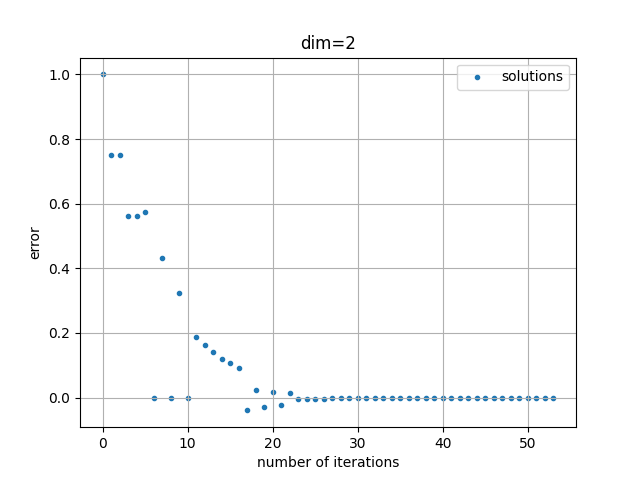
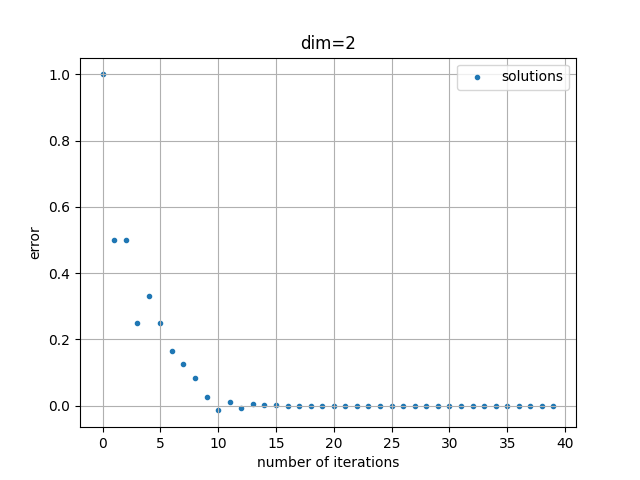
row 103 idk how to make it converge :(

diff --git a/code/main.py b/code/main.py
@@ -1,5 +1,6 @@
 import numpy as np
 import matplotlib.pyplot as plt
+from matplotlib.cm import ScalarMappable
 import os
 
 
@@ -98,6 +99,8 @@ class ImprovedIterationScheme:
             if if_plot is True:
                 self.plot_points_norm()
                 self.plot_points_value()
+
+            new_solution = new_solution + 0.005 * (new_solution - self.initial_value) * (1 / self.iterations)  # ?
 
             self.iterations += 1  # after calculating a new solution, iterations++
             self.all_solutions.append(np.array(new_solution))  # add new_solution to the solution list
@@ -276,6 +279,55 @@ class ImprovedIterationScheme:
         file_name = f"{folder_name}/value_norm.png"
         plt.savefig(file_name)
 
+    def plot_all_solutions_value_3d(self):
+        # do if n = 3:
+        folder_name = "results/all_iterating_solutions"
+        os.makedirs(folder_name, exist_ok=True)
+
+        fig = plt.figure()
+        ax = fig.add_subplot(111, projection='3d')
+        num_points = len(self.all_solutions)
+        colors = np.arange(num_points)
+        cmap = plt.get_cmap('viridis')
+        normalize = plt.Normalize(vmin=colors.min(), vmax=colors.max())
+        scalar_map = ScalarMappable(cmap=cmap, norm=normalize)
+
+        for i in range(num_points):
+            color_val = scalar_map.to_rgba(colors[i])
+            ax.scatter(self.all_solutions[i][0], self.all_solutions[i][1], self.all_solutions[i][2], c=[color_val], cmap='viridis', s=50)
+
+        scalar_map.set_array(colors)
+        cbar = plt.colorbar(scalar_map)
+        cbar.set_label('Index')
+
+        file_name = f"{folder_name}/value.png"
+        plt.savefig(file_name)
+        plt.show()
+
+    def plot_all_solutions_value_2d(self):
+        plt.figure()
+        # do if n = 2:
+        folder_name = "results/all_iterating_solutions"
+        os.makedirs(folder_name, exist_ok=True)
+
+        num_points = len(self.all_solutions)
+        colors = np.arange(num_points)
+        cmap = plt.get_cmap('viridis')
+        normalize = plt.Normalize(vmin=colors.min(), vmax=colors.max())
+        scalar_map = ScalarMappable(cmap=cmap, norm=normalize)
+
+        for i in range(num_points):
+            color_val = scalar_map.to_rgba(colors[i])
+            plt.scatter(self.all_solutions[i][0], self.all_solutions[i][1], c=[color_val], cmap='viridis', s=50)
+
+        scalar_map.set_array(colors)
+        cbar = plt.colorbar(scalar_map)
+        cbar.set_label('Index')
+
+        file_name = f"{folder_name}/value.png"
+        plt.savefig(file_name)
+        plt.show()
+
 
 def test_s(n_start, n_end, s_range):
     for n in range(n_start, n_end+1):
@@ -320,8 +372,12 @@ def main(n, s):
     example.plot_all_solutions()
     example.plot_all_solutions_norm()
     example.plot_all_solutions_value()
+    if n == 3:
+        example.plot_all_solutions_value_3d()
+    elif n == 2:
+        example.plot_all_solutions_value_2d()
 
 
 if __name__ == "__main__":
-    # test_s(n_start=4, n_end=6, s_range=100)
-    main(n=5, s=5)
+    # test_s(n_start=2, n_end=2, s_range=100)
+    main(n=3, s=4)
